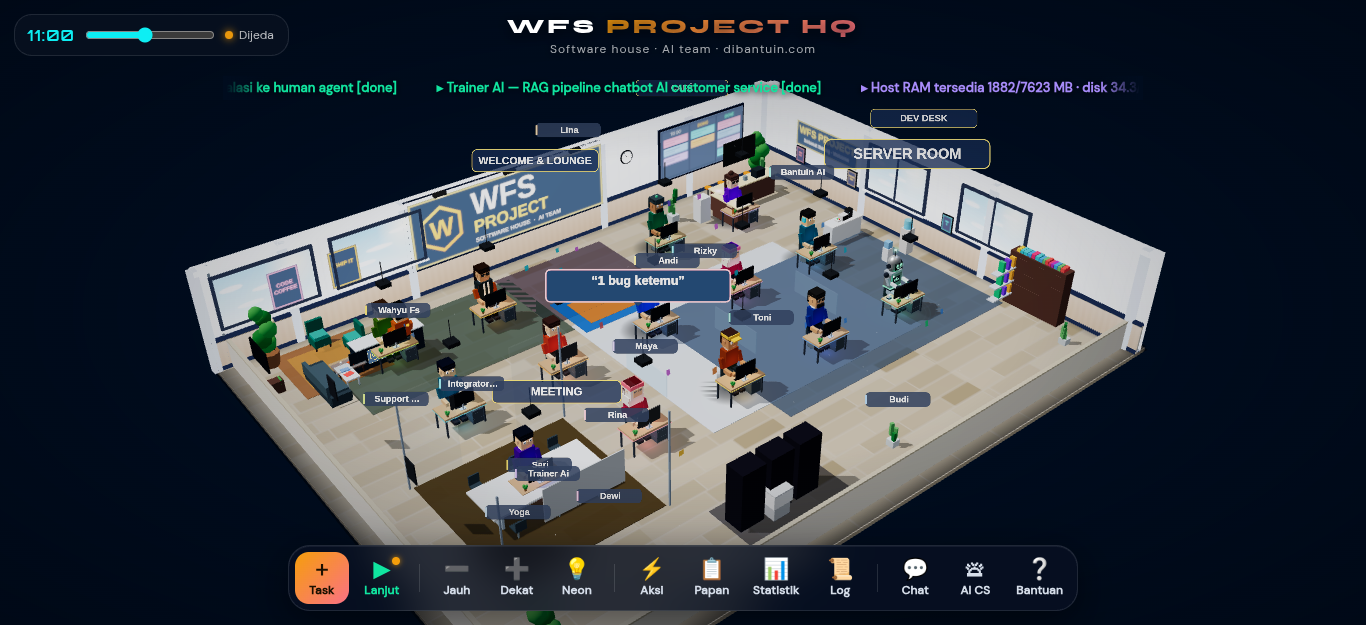
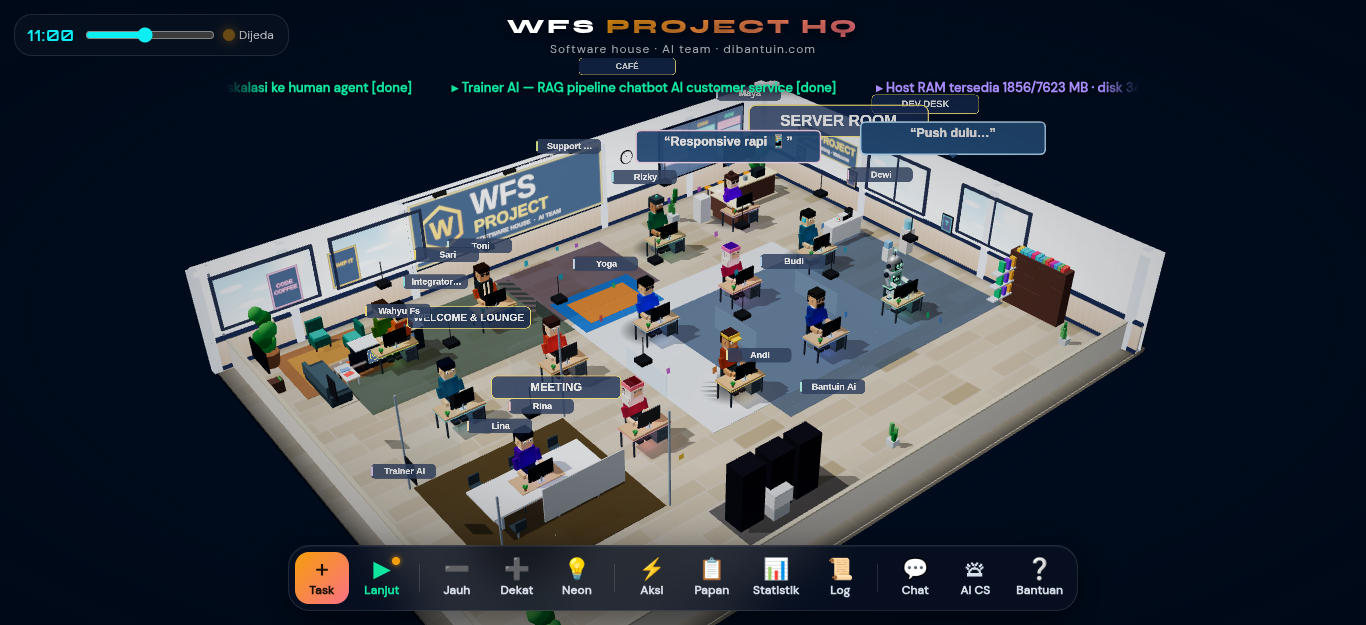
auto: update 2026-10-18 06:30 WIB

diff --git a/src/scene/OfficeScene.js b/src/scene/OfficeScene.js
@@ -1785,7 +1785,7 @@ function animate(){
     for(let iter=0;iter<5;iter++){ // multi-pass: satu pass hanya menggeser sedikit, 3 pass menjamin kluster padat benar2 terpisah
     for(let i=0;i<pts.length;i++){for(let j=0;j<i;j++){
       // PAD = breathing room: box diperluas 10px per sisi supaya label tak "menempel" (<5px gap)
-      const PAD=28, lwi=(pts[i].sw||pts[i].zw||0)+PAD, lhi=(pts[i].sh||pts[i].zh||0)+PAD,
+      const PAD=30, lwi=(pts[i].sw||pts[i].zw||0)+PAD, lhi=(pts[i].sh||pts[i].zh||0)+PAD,
             lwj=(pts[j].sw||pts[j].zw||0)+PAD, lhj=(pts[j].sh||pts[j].zh||0)+PAD;
       const dx=Math.abs(pts[i].x-pts[j].x), dy=Math.abs((pts[i].y+pts[i].offY)-(pts[j].y+pts[j].offY));
       if(dx<(lwi+lwj)/2 && dy<(lhi+lhj)/2){
@@ -1804,7 +1804,7 @@ function animate(){
           pts[i].offY+=h2*1.9;const dir=(pts[i].x>=pts[j].x)?1:-1;pts[i].offX+=dir*w2*1.0;
           if(pts[j].bub){pts[j].offY-=h2*0.35;pts[j].offX-=dir*w2*0.25;}
           // jika penghalang adalah label zona, zona ikut geser sedikit (0.5x) — kluster padat zona+agent bisa over-cap agent
-          else if(pts[j].zt){pts[j].offY-=h2*0.5;pts[j].offX-=dir*w2*0.4;}
+          else if(pts[j].zt){pts[j].offY-=h2*0.5;pts[j].offX-=dir*w2*0.9;}
         }
         else if(!pts[j].zone){
           pts[j].offY-=h2*1.6;const dir=(pts[j].x>=pts[i].x)?1:-1;pts[j].offX+=dir*w2*0.9;
@@ -1828,7 +1828,7 @@ function animate(){
           for(let j=0;j<i;j++){
             const pj=byY[j];
             if(Math.abs(pi.x+pi.offX-(pj.x+pj.offX))>=((pi.sw||pi.zw||0)+(pj.sw||pj.zw||0))/2+30)continue;
-            const need=(pj.y+pj.offY)+((pi.sh||pi.zh||0)+(pj.sh||pj.zh||0))/2+32;
+            const need=(pj.y+pj.offY)+((pi.sh||pi.zh||0)+(pj.sh||pj.zh||0))/2+36;
             if(need>minY)minY=need;
           }
           if(minY>-Infinity&&(pi.y+pi.offY)<minY)pi.offY=minY-(pi.y);
@@ -1847,8 +1847,8 @@ function animate(){
     // konversi offset piksel ke satuan dunia (~ jarak/tinggi layar), cap supaya label tidak melayang jauh
     const dist=camera.position.distanceTo(tgt), worldPerPx=2*dist*Math.tan(camera.fov*Math.PI/360)/container.clientHeight;
     pts.forEach(p=>{
-      const dy=Math.min(24,p.offY*worldPerPx*1.2), dx=Math.max(-6,Math.min(6,p.offX*worldPerPx));
-      if(p.zone){if(p.zt){const dyz=Math.max(-25,Math.min(25,p.offY*worldPerPx*1.2)), dxz=Math.max(-6,Math.min(6,p.offX*worldPerPx)); p.zt.position.y=p.baseY+dyz; p.zt.position.x=p.baseX+dxz; const zu=p.zt.userData; zu.antiY=(zu.antiY||0)+dyz; zu.antiX=(zu.antiX||0)+dxz;} else if(p.bub){p.bub.position.y=p.baseY+dy*0.4; p.bub.position.x=p.baseX+dx*0.5;} return;} // zona/bubble
+      const dy=Math.min(34,p.offY*worldPerPx*1.2), dx=Math.max(-12,Math.min(12,p.offX*worldPerPx));
+      if(p.zone){if(p.zt){const dyz=Math.max(-25,Math.min(25,p.offY*worldPerPx*1.2)), dxz=Math.max(-14,Math.min(14,p.offX*worldPerPx)); p.zt.position.y=p.baseY+dyz; p.zt.position.x=p.baseX+dxz; const zu=p.zt.userData; zu.antiY=(zu.antiY||0)+dyz; zu.antiX=(zu.antiX||0)+dxz;} else if(p.bub){p.bub.position.y=p.baseY+dy*0.4; p.bub.position.x=p.baseX+dx*0.5;} return;} // zona/bubble
       p.a.label.position.y=p.baseY+dy; p.a.label.position.x=p.baseX+dx;
       p.a.label.userData.antiY=dy; p.a.label.userData.antiX=dx; // utk base frame berikutnya
     });
